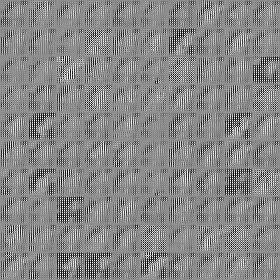
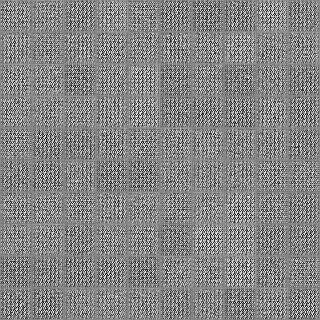
Adding relevant images

diff --git a/elements/dcgan32.py b/elements/dcgan32.py
@@ -57,9 +57,9 @@ def generator():
 	image_batch, one_hot_batch = mnist.train.next_batch(batch_size)
 	image_batch = image_batch.reshape([batch_size, 28,28,1])
 	images = np.zeros([batch_size,32,32,1])
-	images[:,:28,:28,0] = image_batch
+	images[:,:28,:28,:] = image_batch
 	random_batch = np.random.normal(size=[batch_size, embedding_size])
-	return image_batch, one_hot_batch, random_batch
+	return images, one_hot_batch, random_batch
 
 
 def save_visualization(X, nh_nw, save_path='../mnistimages/sample_0.jpg'):
